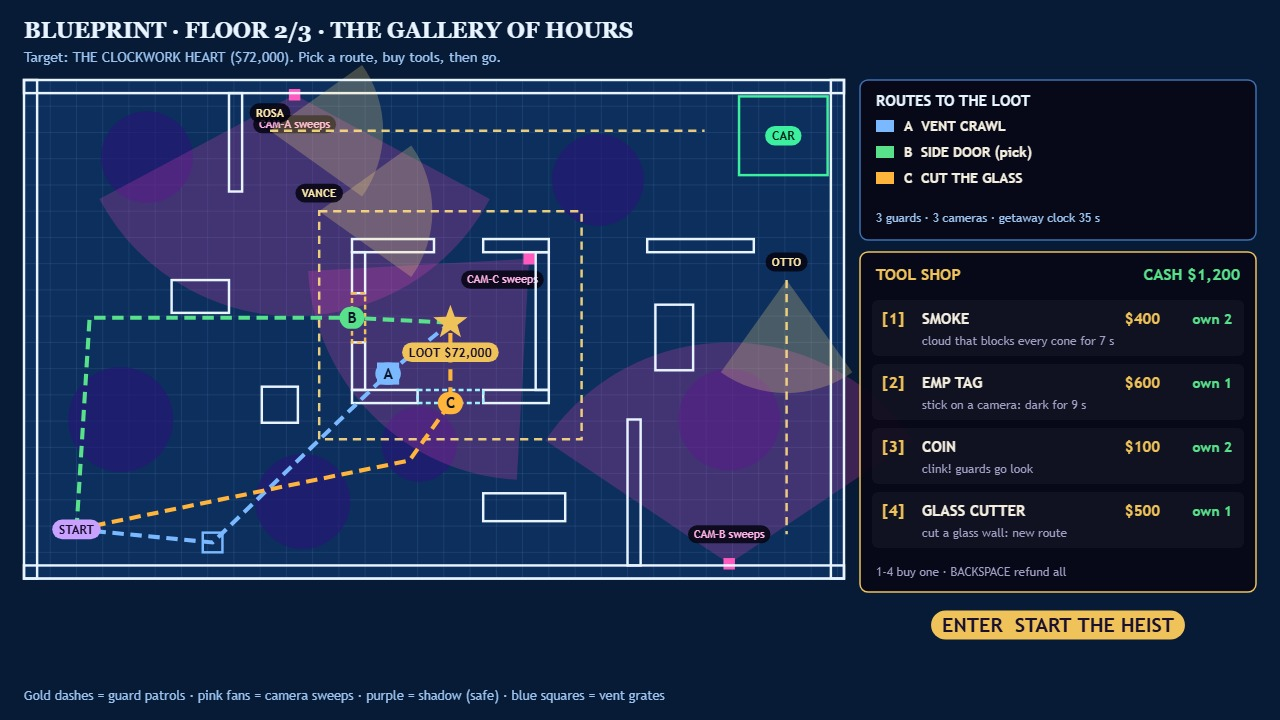
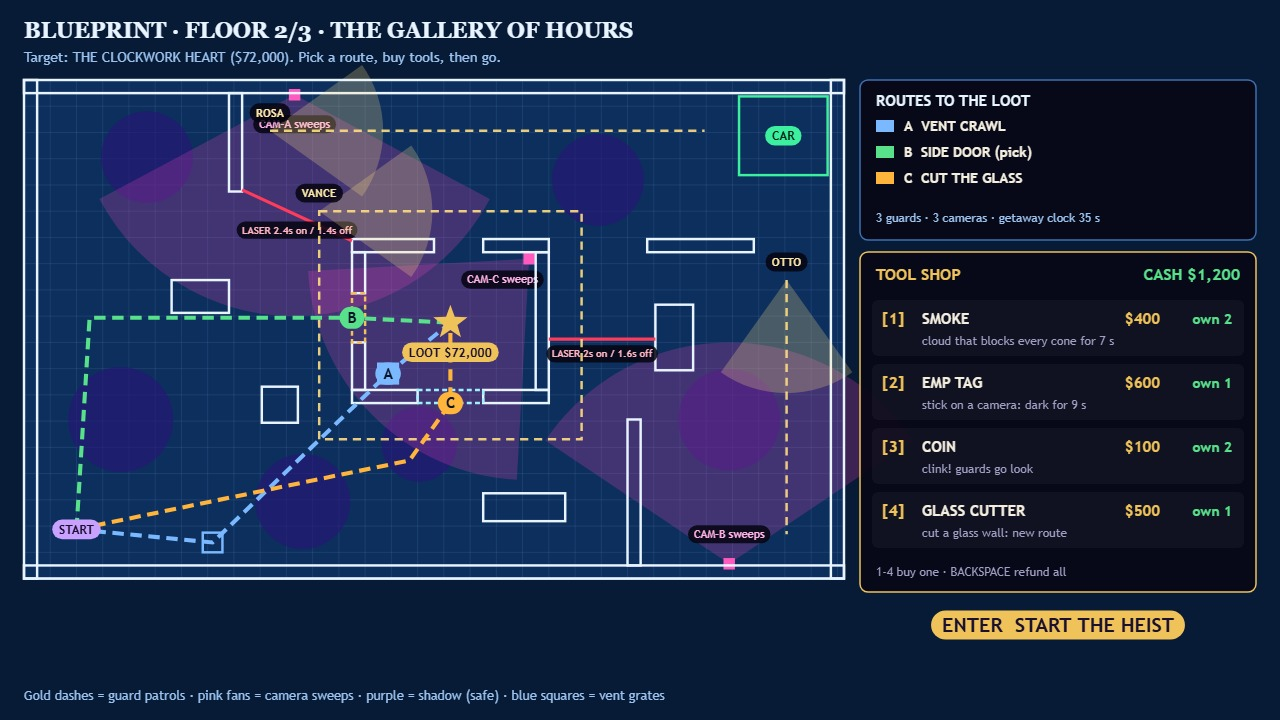
v3: laser tripwires on a beat, deco rugs, palms and lamp light; lasers on the blueprint and legend

Changed region(s): [[0.4062, 0.4583, 0.5312, 0.5194], [0.1875, 0.2444, 0.2812, 0.3361]]

diff --git a/game/src/render/floor-art.js b/game/src/render/floor-art.js
@@ -260,8 +260,102 @@ function car(ctx, state) {
   pill(ctx, live ? 'GETAWAY CAR  GO!' : 'GETAWAY CAR', cx, e.y + 12, { size: 11, color: '#bfffe2', edge: live ? COLOR.exit : null });
 }
 
+/** Deco rugs, potted palms and warm lamp pools: the gallery by night, for looks only. */
+function decor(ctx, floor, layer) {
+  for (const d of floor.decor ?? []) {
+    if (layer === 'under' && d.kind === 'rug') {
+      ctx.fillStyle = 'rgba(120,24,48,0.55)';
+      ctx.fillRect(d.x, d.y, d.w, d.h);
+      ctx.strokeStyle = 'rgba(240,194,90,0.55)';
+      ctx.lineWidth = 2;
+      ctx.strokeRect(d.x + 5, d.y + 5, d.w - 10, d.h - 10);
+      ctx.lineWidth = 1;
+      ctx.strokeRect(d.x + 10, d.y + 10, d.w - 20, d.h - 20);
+      const cx = d.x + d.w / 2;
+      const cy = d.y + d.h / 2;
+      ctx.beginPath();
+      ctx.moveTo(cx, cy - 16);
+      ctx.lineTo(cx + 16, cy);
+      ctx.lineTo(cx, cy + 16);
+      ctx.lineTo(cx - 16, cy);
+      ctx.closePath();
+      ctx.stroke();
+    } else if (layer === 'under' && d.kind === 'lamp') {
+      const g = ctx.createRadialGradient(d.x, d.y, 4, d.x, d.y, 90);
+      g.addColorStop(0, 'rgba(255,205,120,0.30)');
+      g.addColorStop(1, 'rgba(255,205,120,0)');
+      ctx.fillStyle = g;
+      ctx.beginPath();
+      ctx.arc(d.x, d.y, 90, 0, Math.PI * 2);
+      ctx.fill();
+    } else if (layer === 'over' && d.kind === 'lamp') {
+      ctx.fillStyle = '#ffe2a0';
+      ctx.beginPath();
+      ctx.arc(d.x, d.y, 5, 0, Math.PI * 2);
+      ctx.fill();
+      ctx.strokeStyle = COLOR.gold;
+      ctx.lineWidth = 1.5;
+      ctx.beginPath();
+      ctx.arc(d.x, d.y, 9, 0, Math.PI * 2);
+      ctx.stroke();
+    } else if (layer === 'over' && d.kind === 'plant') {
+      ctx.fillStyle = '#5a3a1e';
+      ctx.beginPath();
+      ctx.arc(d.x, d.y, 9, 0, Math.PI * 2);
+      ctx.fill();
+      ctx.fillStyle = '#2fae6a';
+      for (let i = 0; i < 7; i += 1) {
+        const a = (i / 7) * Math.PI * 2;
+        ctx.beginPath();
+        ctx.ellipse(d.x + Math.cos(a) * 9, d.y + Math.sin(a) * 9, 9, 3.5, a, 0, Math.PI * 2);
+        ctx.fill();
+      }
+    }
+  }
+}
+
+/** Laser tripwires: a hot red beam while live, a faint dotted line and a countdown while off. */
+export function drawLasers(ctx, state) {
+  for (const l of state.lasers ?? []) {
+    const [ax, ay] = l.a;
+    const [bx, by] = l.b;
+    if (l.live) {
+      ctx.strokeStyle = 'rgba(255,40,70,0.35)';
+      ctx.lineWidth = 9;
+      ctx.beginPath();
+      ctx.moveTo(ax, ay);
+      ctx.lineTo(bx, by);
+      ctx.stroke();
+      ctx.strokeStyle = '#ff3b5c';
+      ctx.lineWidth = 2.5;
+      ctx.stroke();
+      ctx.strokeStyle = '#ffd0d8';
+      ctx.lineWidth = 1;
+      ctx.stroke();
+    } else {
+      ctx.setLineDash([3, 6]);
+      ctx.strokeStyle = 'rgba(255,90,110,0.45)';
+      ctx.lineWidth = 1.5;
+      ctx.beginPath();
+      ctx.moveTo(ax, ay);
+      ctx.lineTo(bx, by);
+      ctx.stroke();
+      ctx.setLineDash([]);
+    }
+    for (const [x, y] of [l.a, l.b]) {
+      ctx.fillStyle = '#2a0a12';
+      ctx.fillRect(x - 6, y - 6, 12, 12);
+      ctx.strokeStyle = l.live ? '#ff3b5c' : '#7a3a48';
+      ctx.lineWidth = 2;
+      ctx.strokeRect(x - 6, y - 6, 12, 12);
+    }
+    pill(ctx, l.live ? `${l.id} · LIVE` : `${l.id} · OFF`, (ax + bx) / 2, (ay + by) / 2 - 14, { size: 10, color: l.live ? '#ffb3c0' : '#c9c3dd' });
+  }
+}
+
 export function drawFloor(ctx, state) {
   marble(ctx);
+  decor(ctx, state.floor, 'under');
   sunburst(ctx, state.floor.loot.x, state.floor.loot.y, hexToRgb(state.floor.loot.gem));
   shadows(ctx, state.floor, state.time);
   vents(ctx, state.floor);
@@ -269,4 +363,5 @@ export function drawFloor(ctx, state) {
   walls(ctx, state.floor);
   glassAndDoors(ctx, state);
   junctionBoxes(ctx, state);
+  decor(ctx, state.floor, 'over');
 }

diff --git a/game/src/floors.js b/game/src/floors.js
@@ -47,6 +47,13 @@ export const FLOORS = [
       { x: 520, y: 130, r: 54 },
     ],
     vents: [{ a: { x: 60, y: 110 }, b: { x: 640, y: 270 } }],
+    decor: [
+      { kind: 'rug', x: 200, y: 380, w: 150, h: 90 },
+      { kind: 'plant', x: 964, y: 628 },
+      { kind: 'plant', x: 300, y: 92 },
+      { kind: 'lamp', x: 420, y: 200 },
+      { kind: 'lamp', x: 860, y: 420 },
+    ],
     guards: [
       { name: 'BRUNO', route: [[560, 180], [840, 180], [840, 500], [560, 500]], pause: 0.8 },
       { name: 'MAE', route: [[270, 580], [560, 580]], pause: 1.6 },
@@ -93,6 +100,20 @@ export const FLOORS = [
       { x: 482, y: 500, r: 46 },
     ],
     vents: [{ a: { x: 230, y: 620 }, b: { x: 444, y: 414 } }],
+    lasers: [
+      { a: [266, 190], b: [400, 252], on: 2.4, off: 1.4 },
+      { a: [640, 372], b: [770, 372], on: 2.0, off: 1.6, phase: 1.1 },
+    ],
+    decor: [
+      { kind: 'rug', x: 36, y: 226, w: 130, h: 56 },
+      { kind: 'rug', x: 520, y: 470, w: 110, h: 70 },
+      { kind: 'plant', x: 36, y: 92 },
+      { kind: 'plant', x: 230, y: 92 },
+      { kind: 'plant', x: 964, y: 640 - 12 },
+      { kind: 'lamp', x: 150, y: 260 },
+      { kind: 'lamp', x: 840, y: 330 },
+      { kind: 'lamp', x: 600, y: 610 },
+    ],
     guards: [
       { name: 'VANCE', route: [[360, 216], [680, 216], [680, 494], [360, 494]], pause: 0.6 },
       { name: 'ROSA', route: [[300, 118], [830, 118]], pause: 1.8 },
@@ -143,6 +164,15 @@ export const FLOORS = [
       { x: 300, y: 130, r: 50 },
     ],
     vents: [{ a: { x: 960, y: 330 }, b: { x: 584, y: 96 } }],
+    lasers: [{ a: [840, 190], b: [984, 190], on: 2.2, off: 1.5 }],
+    decor: [
+      { kind: 'rug', x: 420, y: 330, w: 160, h: 90 },
+      { kind: 'rug', x: 680, y: 430, w: 120, h: 140 },
+      { kind: 'plant', x: 40, y: 92 },
+      { kind: 'plant', x: 964, y: 92 },
+      { kind: 'lamp', x: 260, y: 560 },
+      { kind: 'lamp', x: 760, y: 300 },
+    ],
     guards: [
       { name: 'LUCIEN', route: [[340, 320], [660, 320]], pause: 1.2 },
       { name: 'IVY', route: [[250, 440], [250, 600], [700, 600], [700, 440]], pause: 0.7 },

diff --git a/game/src/systems/lasers.js b/game/src/systems/lasers.js
@@ -1,0 +1,48 @@
+// Laser tripwires: red beams strung between two emitters that blink on and off on a fixed beat.
+// Crossing a live beam trips it: the alarm jumps and the nearest guard comes running. Read the
+// beat, wait for the gap, slip through.
+import { raiseAlarm } from './alarm.js';
+import { radioGuards } from '../actors/guards.js';
+
+export const LASER_TRIP = 22;
+
+export function makeLasers(floor) {
+  return (floor.lasers ?? []).map((l, i) => ({ ...l, id: `LASER ${String.fromCharCode(65 + i)}`, live: true, tripT: 0 }));
+}
+
+/** Is the beam live at this moment of the floor's clock? */
+export function laserLive(laser, time) {
+  const cycle = laser.on + laser.off;
+  return ((time + (laser.phase ?? 0)) % cycle) < laser.on;
+}
+
+/** Seconds until the beam next switches (for the on-screen beat). */
+export function laserSwitchIn(laser, time) {
+  const cycle = laser.on + laser.off;
+  const t = (time + (laser.phase ?? 0)) % cycle;
+  return t < laser.on ? laser.on - t : cycle - t;
+}
+
+function segmentDistance(px, py, [ax, ay], [bx, by]) {
+  const vx = bx - ax;
+  const vy = by - ay;
+  const k = Math.max(0, Math.min(1, ((px - ax) * vx + (py - ay) * vy) / (vx * vx + vy * vy)));
+  return Math.hypot(px - (ax + vx * k), py - (ay + vy * k));
+}
+
+export function stepLasers(state, dt) {
+  const t = state.thief;
+  for (const l of state.lasers) {
+    l.live = laserLive(l, state.time);
+    if (l.tripT > 0) l.tripT -= dt;
+    if (!l.live || t.hidden || l.tripT > 0) continue;
+    if (segmentDistance(t.x, t.y, l.a, l.b) < 9) {
+      l.tripT = 1.5;
+      state.stats.lasersTripped = (state.stats.lasersTripped ?? 0) + 1;
+      raiseAlarm(state, LASER_TRIP);
+      radioGuards(state, t.x, t.y);
+      state.events.push('laser');
+      state.message = { text: `${l.id} TRIPPED! Watch the beat: beams blink off for a moment.`, t: 2.5 };
+    }
+  }
+}

diff --git a/game/src/heist.js b/game/src/heist.js
@@ -10,6 +10,7 @@ import { makeCameras, stepCamera } from './actors/cameras.js';
 import { makeAlarm, stepAlarm } from './systems/alarm.js';
 import { stepNoises } from './systems/noise.js';
 import { stepClouds } from './systems/tools.js';
+import { makeLasers, stepLasers } from './systems/lasers.js';
 
 export const PHASE_INFIL = 'infil';
 export const PHASE_GETAWAY = 'getaway';
@@ -27,6 +28,7 @@ export function startFloor(floorIndex, kit) {
     thief: makeThief(floor),
     guards: makeGuards(floor),
     cameras: makeCameras(floor),
+    lasers: makeLasers(floor),
     glass: floor.glass.map((g) => ({ ...g, cut: false })),
     doors: floor.doors.map((d) => ({ ...d, open: false })),
     alarm: makeAlarm(),
@@ -91,6 +93,7 @@ export function stepFloor(state, input, dt = STEP) {
   stepNoises(state, dt, (g, n) => hearNoise(state, g, n));
   for (const g of state.guards) stepGuard(state, g, dt);
   for (const c of state.cameras) stepCamera(state, c, dt);
+  stepLasers(state, dt);
   if (state.phase === PHASE_SPOTTED) return;
 
   const watched = state.guards.some((g) => g.sees || g.mode === ALERT) || state.cameras.some((c) => c.sees);

diff --git a/game/src/render/hud.js b/game/src/render/hud.js
@@ -115,6 +115,7 @@ function sidePanel(ctx, state) {
     ['vent', 'VENT = hidden crawl (E)'],
     ['glass', 'GLASS = see-through, cut it (4)'],
     ['box', 'JUNCTION BOX = cut cam wire (E)'],
+    ['laser', 'LASER = blinks; cross when OFF'],
     ['loot', 'LOOT PLINTH · then GETAWAY CAR'],
   ];
   const lh = Math.min(22, (PLAY.y + PLAY.h - y - 40) / items.length);
@@ -147,6 +148,14 @@ function sidePanel(ctx, state) {
       ctx.fillRect(ix - 8, iy - 4, 16, 8);
       ctx.strokeStyle = COLOR.glassEdge;
       ctx.strokeRect(ix - 8, iy - 4, 16, 8);
+    } else if (kind === 'laser') {
+      ctx.strokeStyle = '#ff3b5c';
+      ctx.lineWidth = 3;
+      ctx.beginPath();
+      ctx.moveTo(ix - 8, iy);
+      ctx.lineTo(ix + 8, iy);
+      ctx.stroke();
+      ctx.lineWidth = 1.5;
     } else if (kind === 'box') {
       ctx.fillStyle = '#4b1d3d';
       ctx.fillRect(ix - 6, iy - 6, 12, 12);

diff --git a/game/src/main.js b/game/src/main.js
@@ -6,7 +6,7 @@ import { PHASE_CAUGHT, PHASE_ESCAPED, PHASE_SPOTTED, floorResults, startFloor, s
 import { emptyKit, useTool } from './systems/tools.js';
 import { makeInput } from './input.js';
 import { playFrame, unlockAudio } from './audio.js';
-import { drawFloor, drawLoot } from './render/floor-art.js';
+import { drawFloor, drawLasers, drawLoot } from './render/floor-art.js';
 import { drawCones, drawSmokeAndNoise } from './render/cones.js';
 import { drawCameras, drawGuards, drawThief } from './render/actors.js';
 import { drawHud } from './render/hud.js';
@@ -126,6 +126,7 @@ export function render(run) {
   const st = run.state;
   drawFloor(ctx, st);
   drawCones(ctx, st);
+  drawLasers(ctx, st);
   drawLoot(ctx, st);
   drawSmokeAndNoise(ctx, st);
   drawGuards(ctx, st);

diff --git a/game/src/shots.js b/game/src/shots.js
@@ -8,6 +8,7 @@ import { emitNoise } from './systems/noise.js';
 import { useTool } from './systems/tools.js';
 import { inShadow } from './systems/vision.js';
 import { leaveFootprint } from './actors/thief.js';
+import { laserLive } from './systems/lasers.js';
 
 const IDLE = { dx: 0, dy: 0 };
 
@@ -48,6 +49,7 @@ function heistScene(r) {
   s.cameras[1].offT = 6.2;
   s.time = 9.4;
   for (const c of s.cameras) c.angle = c.base + c.sweep * Math.sin((s.time * Math.PI * 2) / c.period);
+  for (const l of s.lasers) l.live = laserLive(l, s.time);
   s.clouds[0].r = 66;
   s.clouds[0].t = 1.4;
   place(byName(s, 'VANCE'), 372, 470, 0.25, SUSPICIOUS, 0.55, "Who's there?");

diff --git a/game/src/render/screens.js b/game/src/render/screens.js
@@ -112,6 +112,15 @@ function blueprint(ctx, floor, ox, oy, scale) {
   ctx.strokeStyle = '#f0c25a';
   for (const d of floor.doors) ctx.strokeRect(d.x, d.y, d.w, d.h);
   ctx.setLineDash([]);
+  for (const l of floor.lasers ?? []) {
+    ctx.strokeStyle = '#ff3b5c';
+    ctx.lineWidth = 4;
+    ctx.beginPath();
+    ctx.moveTo(l.a[0], l.a[1]);
+    ctx.lineTo(l.b[0], l.b[1]);
+    ctx.stroke();
+    pill(ctx, `LASER ${l.on}s on / ${l.off}s off`, (l.a[0] + l.b[0]) / 2, (l.a[1] + l.b[1]) / 2 + 18, { size: 12, color: '#ffb3c0' });
+  }
   for (const g of floor.guards) {
     ctx.strokeStyle = 'rgba(255,222,130,0.9)';
     ctx.setLineDash([10, 7]);

diff --git a/game/src/audio.js b/game/src/audio.js
@@ -69,6 +69,10 @@ const SOUNDS = {
   },
   caught: () => tone(300, 0.9, { type: 'sawtooth', vol: 0.18, slide: -220 }),
   lift: () => [880, 1108, 1318, 1760].forEach((f, i) => tone(f, 0.4, { vol: 0.12, delay: i * 0.07 })),
+  laser: () => {
+    tone(1800, 0.15, { type: 'square', vol: 0.12 });
+    tone(1400, 0.3, { type: 'square', vol: 0.12, delay: 0.15 });
+  },
   door: () => tone(220, 0.12, { type: 'square', vol: 0.1 }),
   glass: () => hiss(0.4, 0.15, 3000),
   wire: () => tone(160, 0.25, { type: 'sawtooth', vol: 0.12, slide: -100 }),

diff --git a/README.md b/README.md
@@ -18,6 +18,7 @@ node serve.ts   # then open http://localhost:8080
 ```
 
 - **WASD / arrows** move, **Shift** sneak (silent, slow), **E** (hold) lift · pick a lock · cut glass · crawl a vent · cut a camera wire
+- **Lasers** blink on a beat: cross a beam only while it is OFF, or the alarm jumps.
 - **Click** throws the selected tool at the cursor, **1-4** pick a tool (smoke, EMP tag, coin, glass cutter), **R** retry the floor
 - Shadow pools hide you (cameras cannot see into them at all; guards only up close). Glass stops feet, not eyes.
 - A guard who sees you shows a **?** that fills after a short grace, then **!** — a chase and a jump on the alarm.
